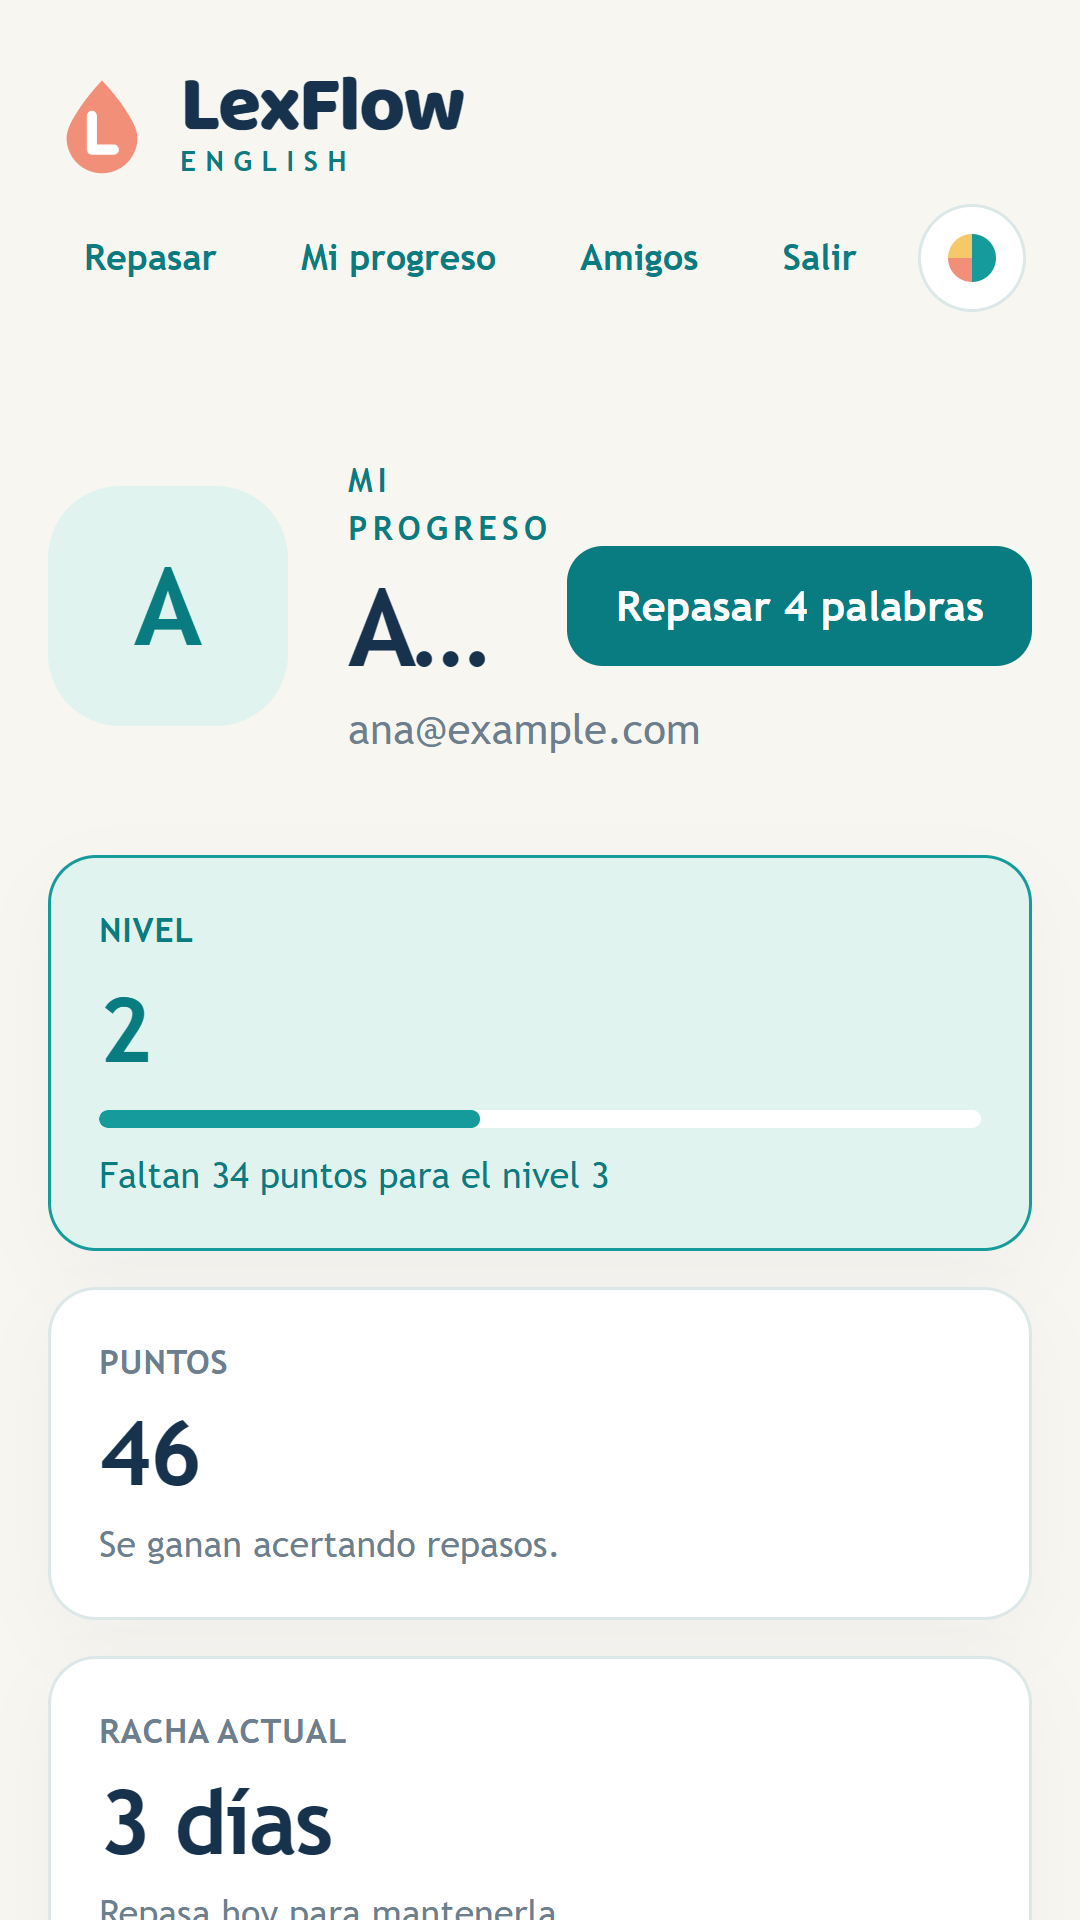
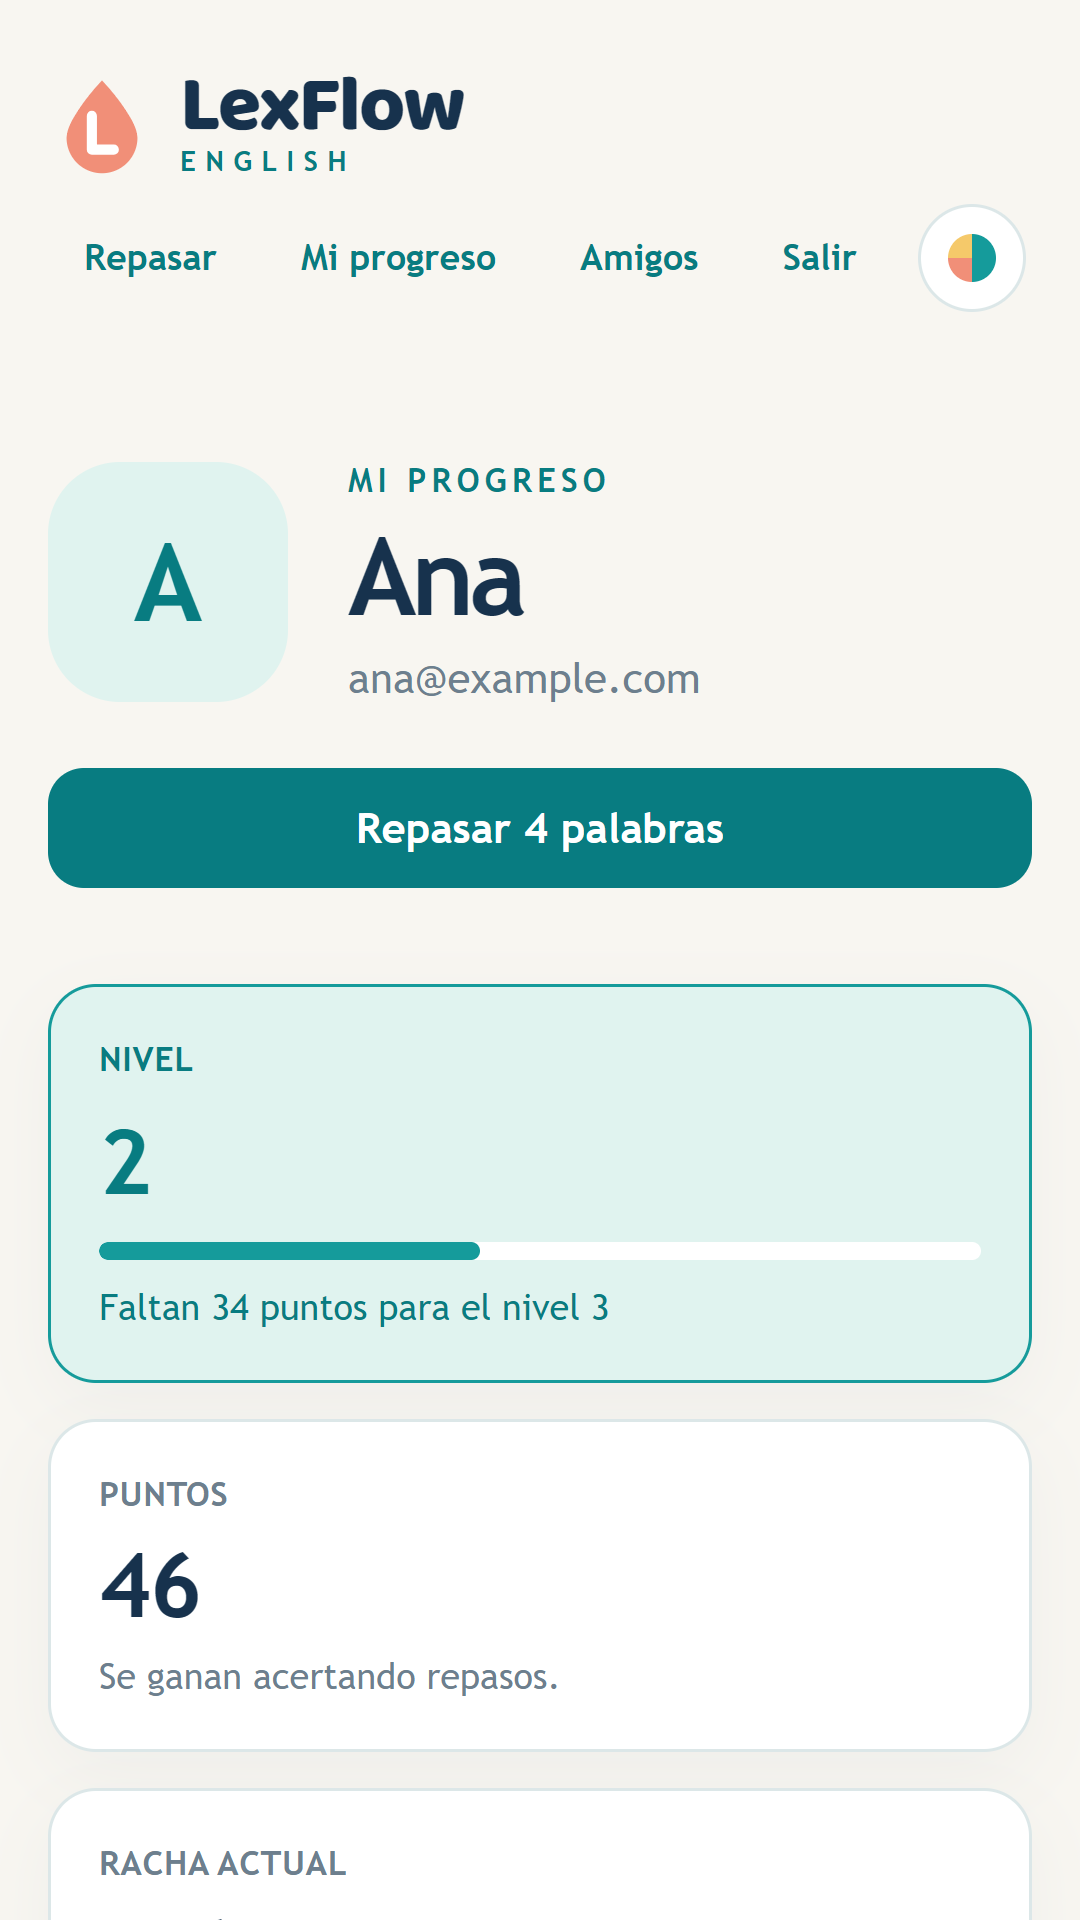
fix: keep the learner's name readable in the progress header on phones

diff --git a/src/pages/profile-page.tsx b/src/pages/profile-page.tsx
@@ -85,7 +85,7 @@ export function ProfilePage() {
           <h1 className="mt-1 mb-0 truncate text-4xl font-bold tracking-tighter sm:text-5xl">{displayName}</h1>
           <p className="mt-1 mb-0 text-sm text-muted">{user.email}</p>
         </div>
-        {review.due ? <Link className={buttonClasses()} to="/review">Repasar {review.due} {review.due === 1 ? "palabra" : "palabras"}</Link> : null}
+        {review.due ? <Link className={cn(buttonClasses(), "basis-full sm:basis-auto")} to="/review">Repasar {review.due} {review.due === 1 ? "palabra" : "palabras"}</Link> : null}
       </header>
 
       <dl className="m-0 grid gap-3 sm:grid-cols-2 lg:grid-cols-4">

diff --git a/CHANGELOG.md b/CHANGELOG.md
@@ -20,6 +20,10 @@ Hasta la 0.6.0, la web y la API vivían juntas en el monorepo [LexFlow-1.0](http
 - La app abre sin conexión: muestra lo ya visitado y cada pantalla avisa si necesita internet, en lugar de la página de error del navegador.
 - Al instalarla, la app se llama «LexFlow English», aparece en la categoría de educación y la barra de estado usa el color de fondo de la app.
 
+### Fixed
+
+- En el móvil, la cabecera de «Mi progreso» cortaba el nombre a la primera letra cuando había palabras por repasar; ahora el botón «Repasar» pasa a su propia fila.
+
 ## [1.0.0] - 2026-10-19
 
 Primera versión como repositorio propio, lista para desplegarse por separado de la API. Incluye todo lo publicado hasta la 0.6.0: inicio con nivel CEFR y colecciones, lecciones de imagen, audio y video, repaso espaciado, perfil con puntos y racha, «Mi progreso», selector de tema, panel admin e instalación como PWA.
